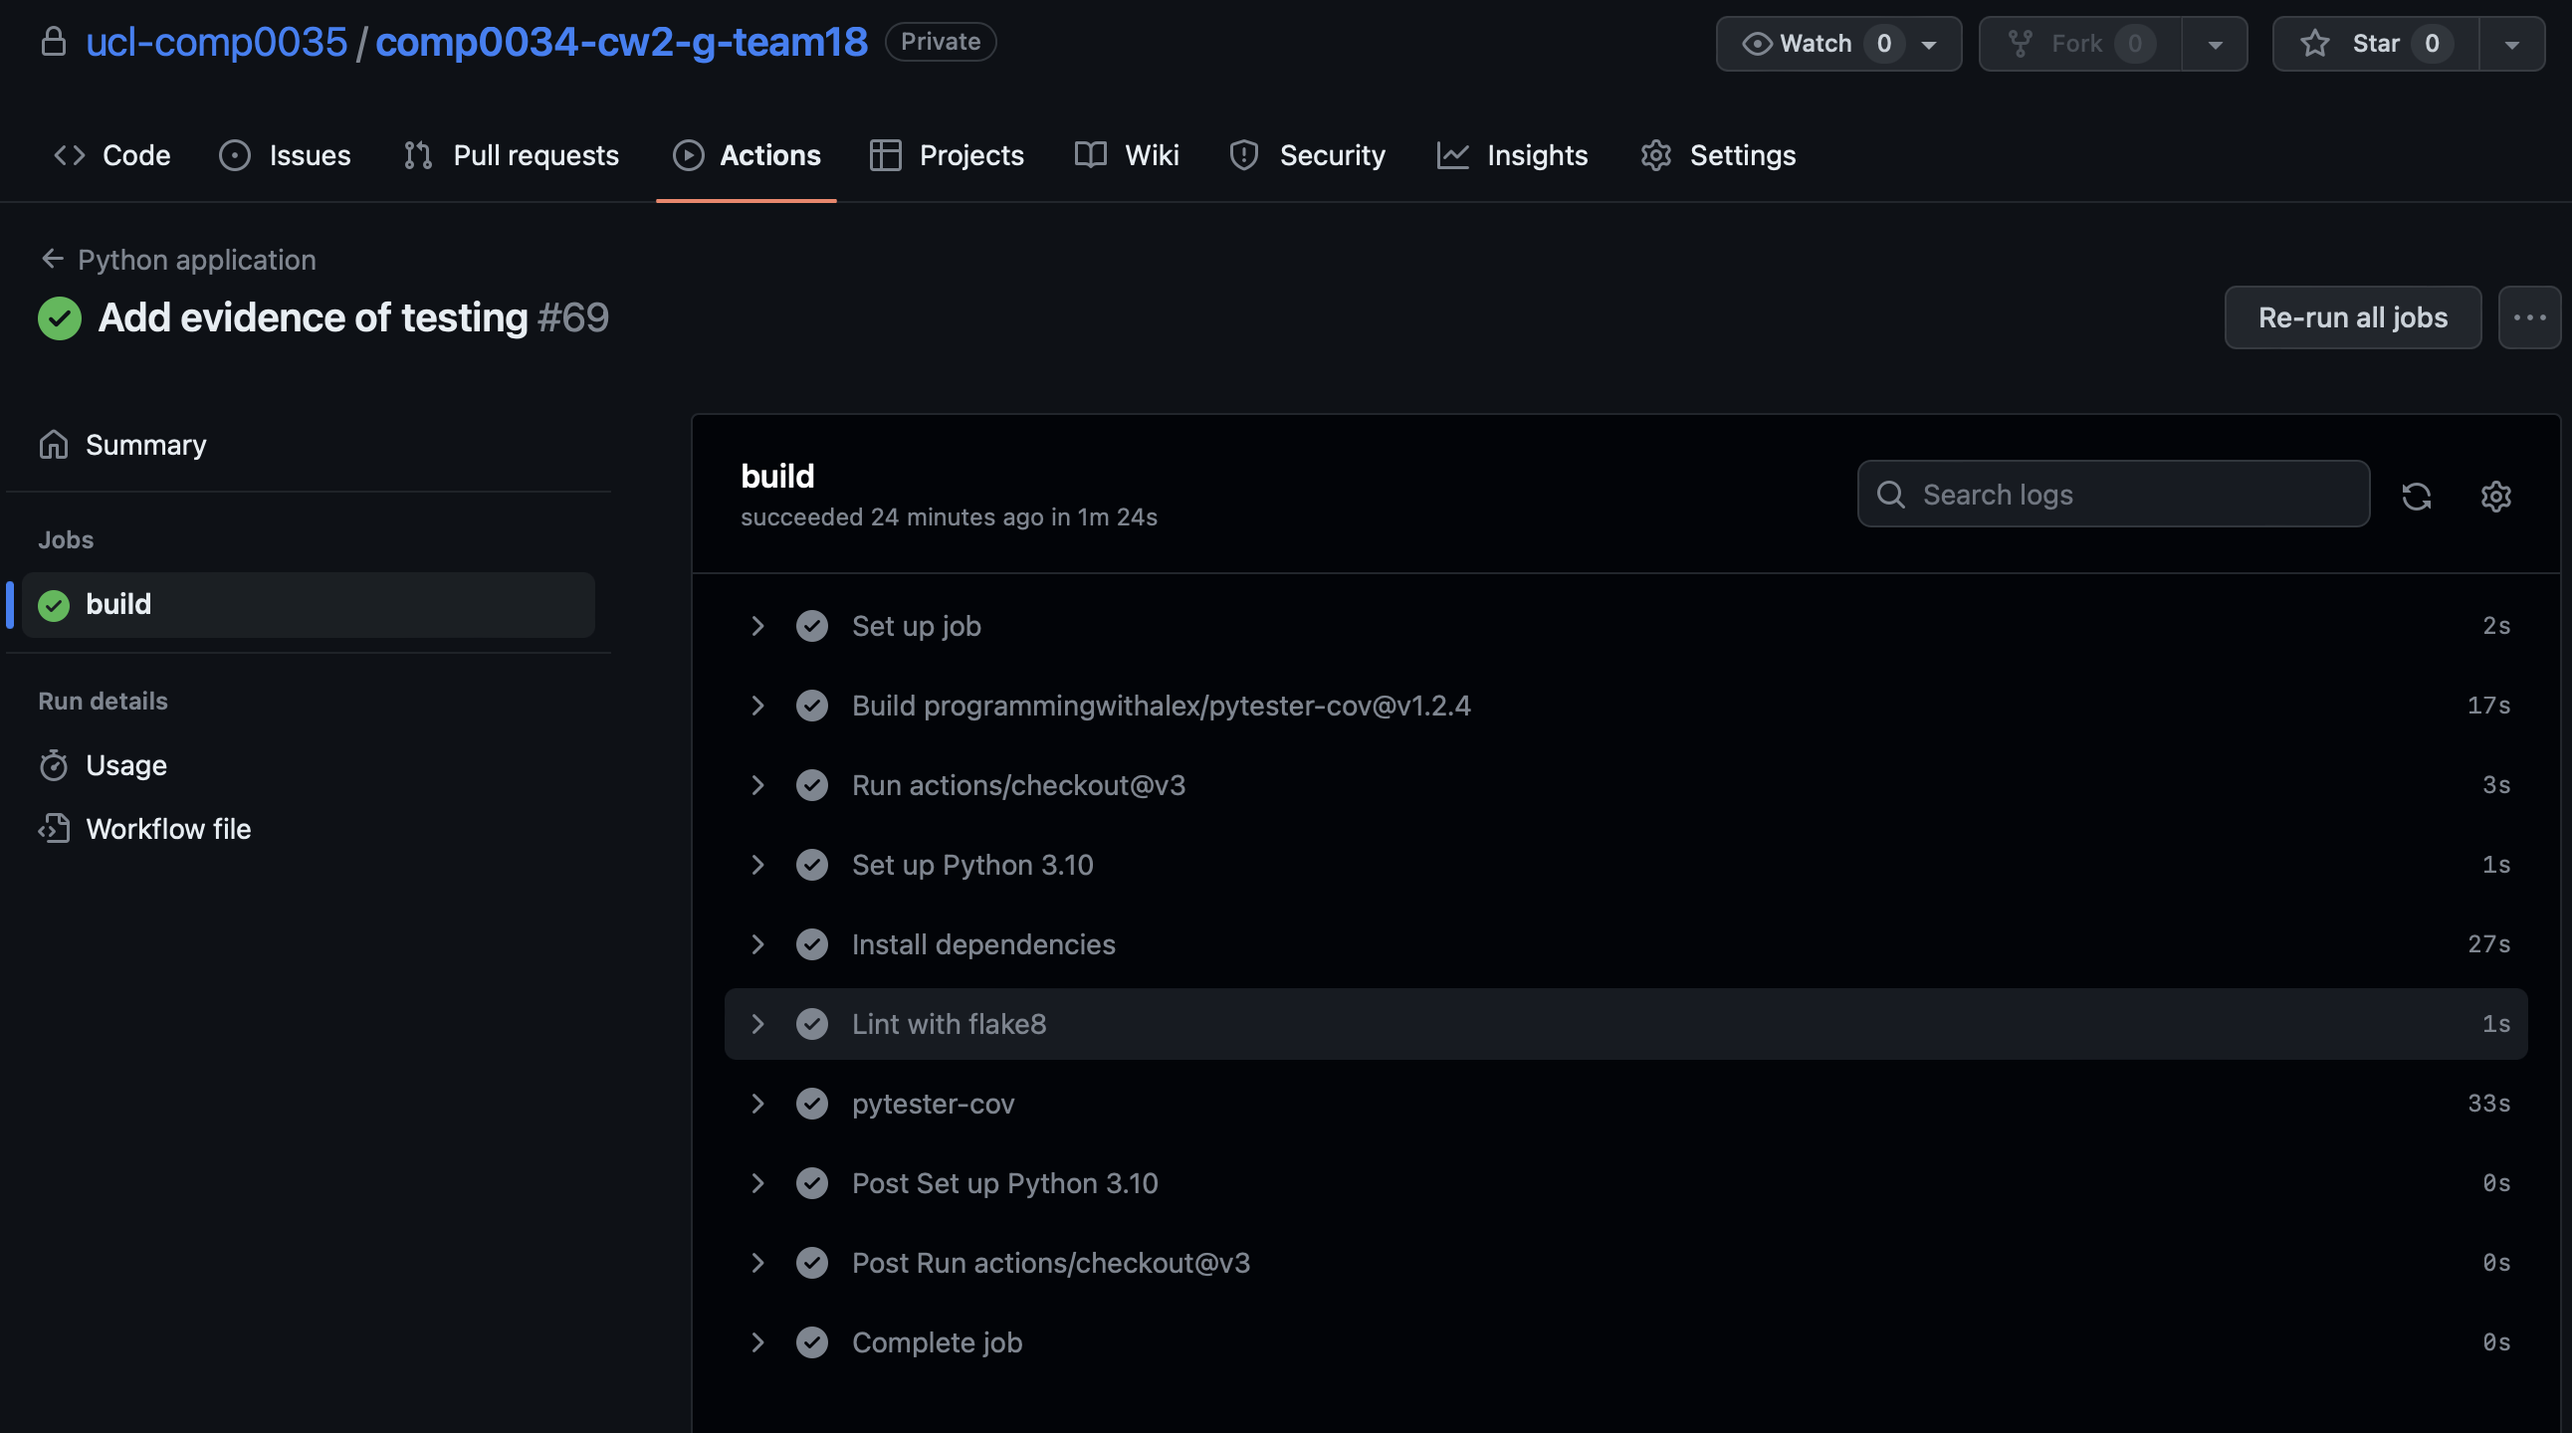
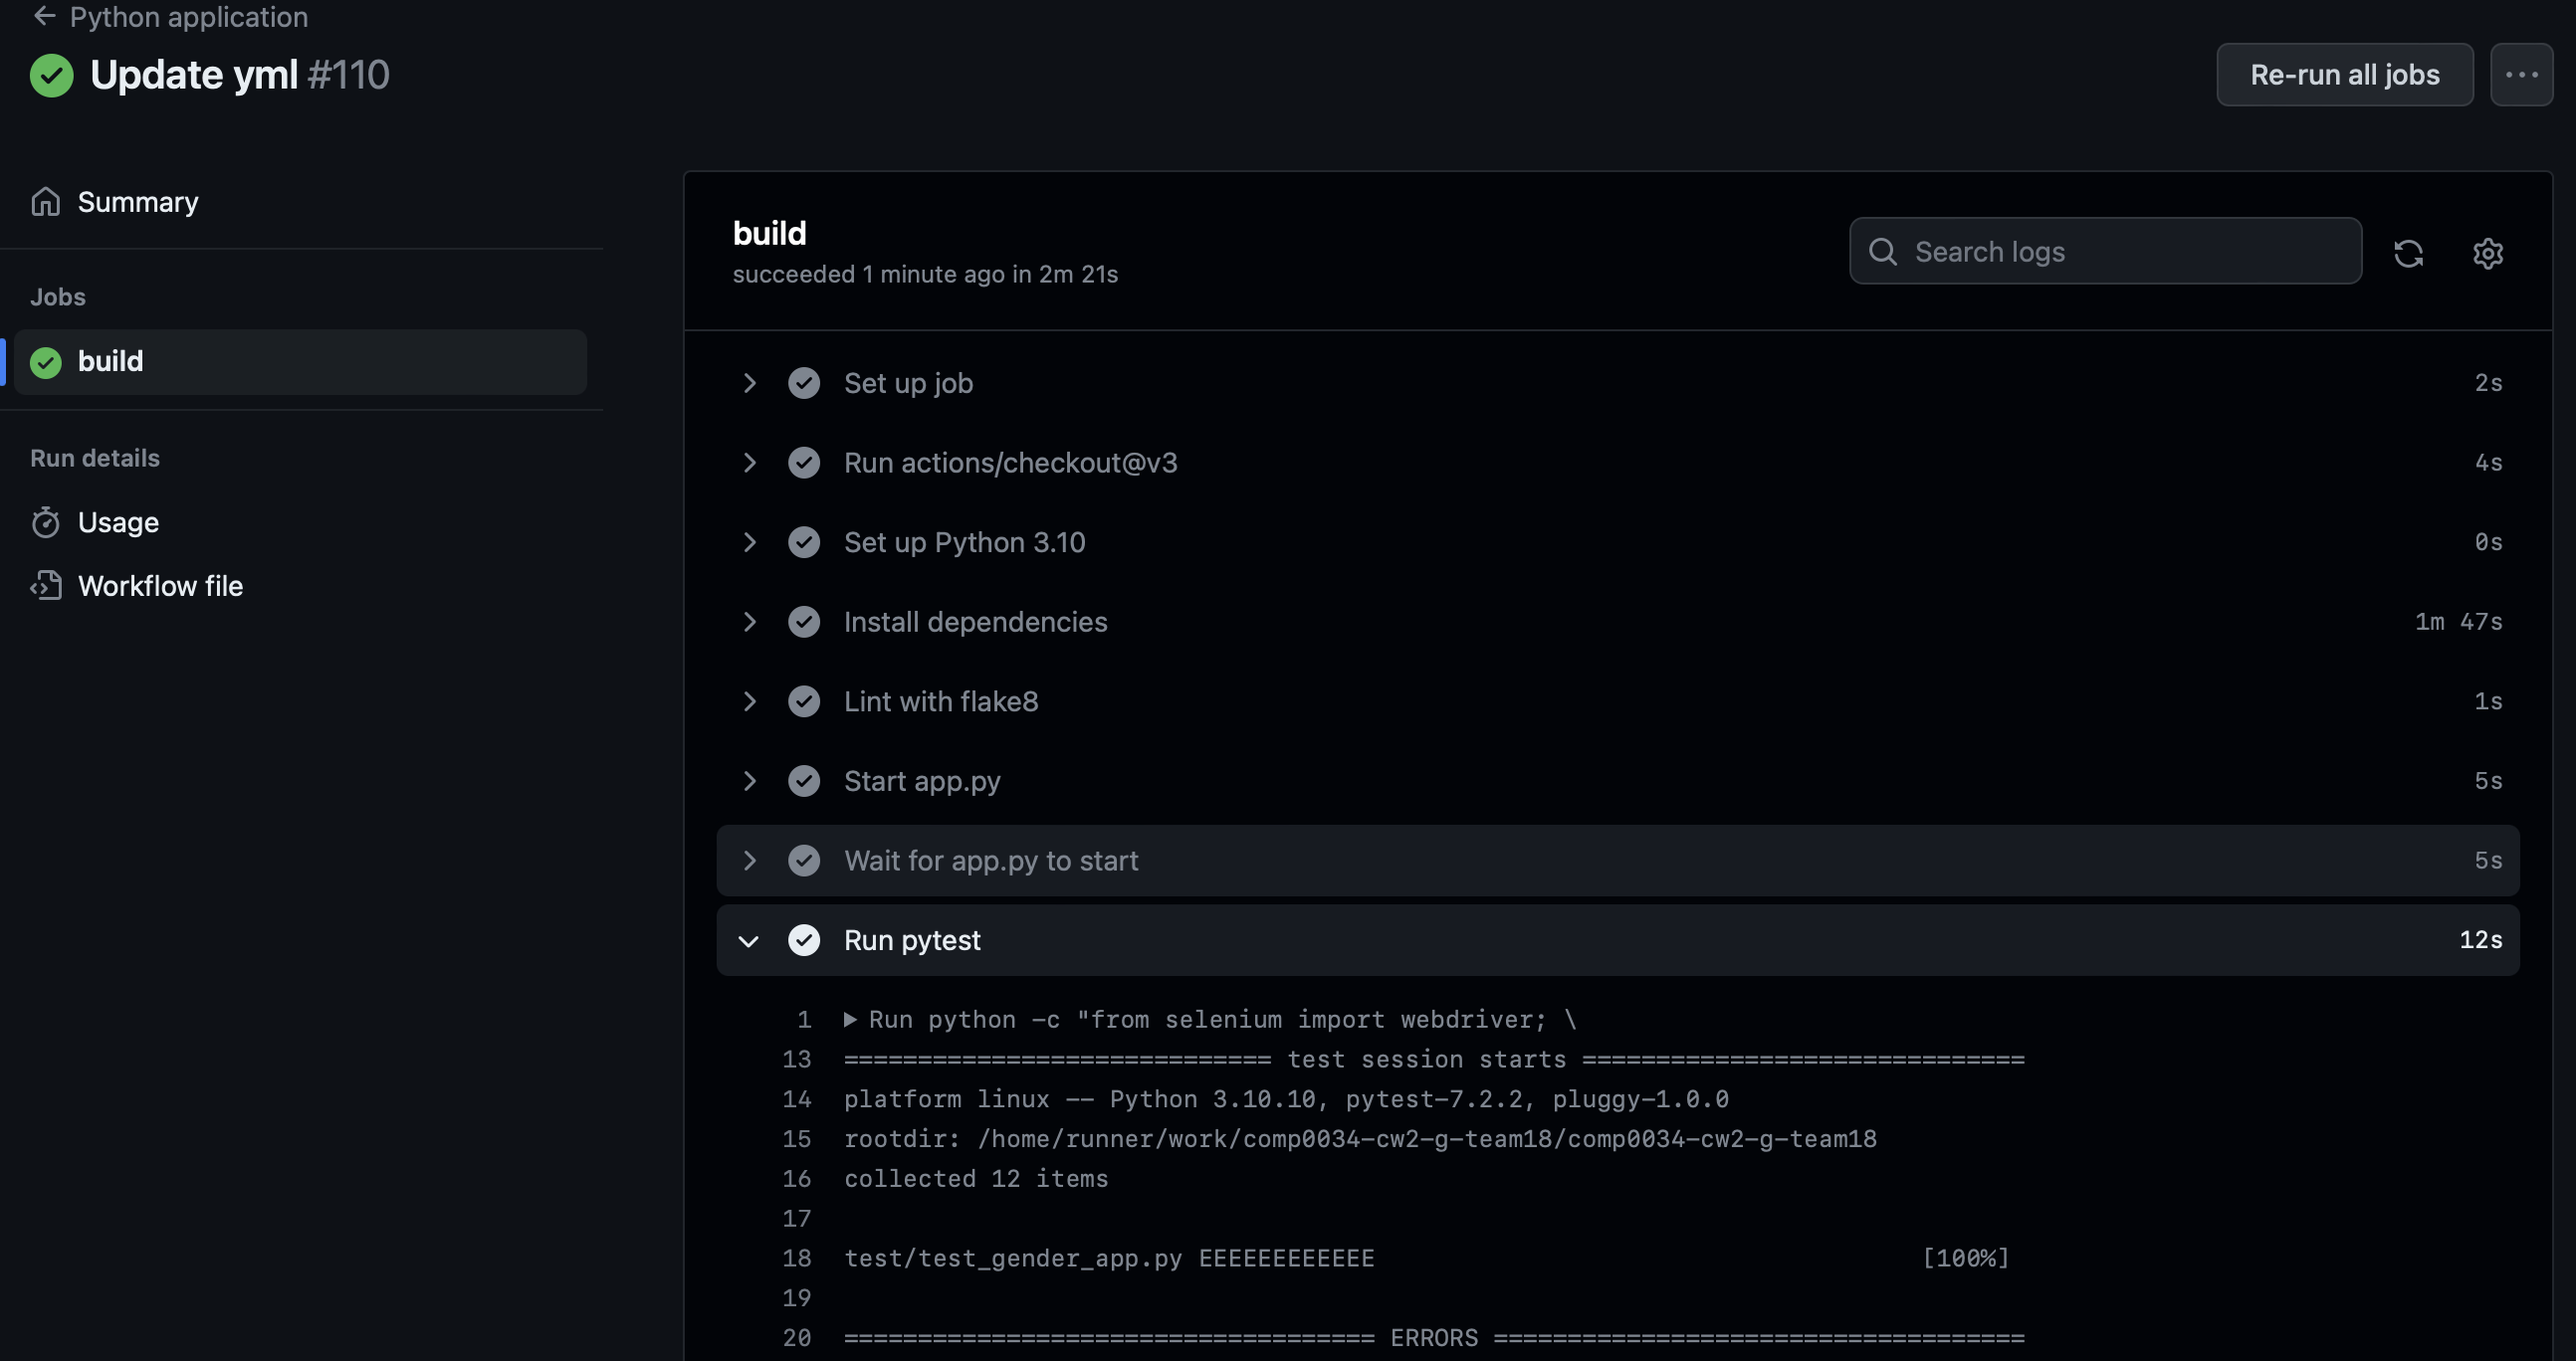
Finalize

diff --git a/README.md b/README.md
@@ -87,14 +87,17 @@ are also used to test the application.
 ### 2.1 Fixtures
 We have created two pytest fixtures in the [conftest.py](test/conftest.py).
 
-The first one is used to set the web driver to ChromeDriver downloaded as mentioned above so that the 
-driver configuration can be commonly used for every test in the testing file. Code for creating the fixture:
+The first one is used to set the web driver to ChromeDriver. Code for creating the fixture:
 ```ruby
 @pytest.fixture
 def driver():
     driver = BasePage(
-        driver=webdriver.Chrome(executable_path='/comp0034-cw2-g-team18/gender_app/test/chromedriver_mac_arm64'
-                                                '/chromedriver'))
+        driver=webdriver.Chrome(
+            service=Service(executable_path=ChromeDriverManager(
+                url="https://chromedriver.storage.googleapis.com"
+            ).install())
+        ))
+    # webdriver.Chrome(executable_path='/gender_app/test/chromedriver_mac_arm64/chromedriver'))
     yield driver
     driver.quit()
 ```
@@ -450,7 +453,10 @@ functionalities.
 
 Like what we did before, we have created a [workflow](.github/workflows/python-app.yml) on GitHub Actions 
 based on Python Application yml file provided on GitHub. However, the default settings reports errors all the time even 
-though dash app and tests went properly on IDE. Therefore, we have changed the settings with code from marketplace. The 
+though dash app and tests went properly on IDE. Therefore, we have changed some settings. The 
 screenshot for a successful result is shown below:
 ![](screenshots/CI.png)
 Dependency management and linting can also be shown in this CI workflow.
+
+Note that although the workflow shows successful result, the test in CI workflow actually contains error that we could 
+not figure out why. However, the pytest results ran in the terminal is alright anyway.
